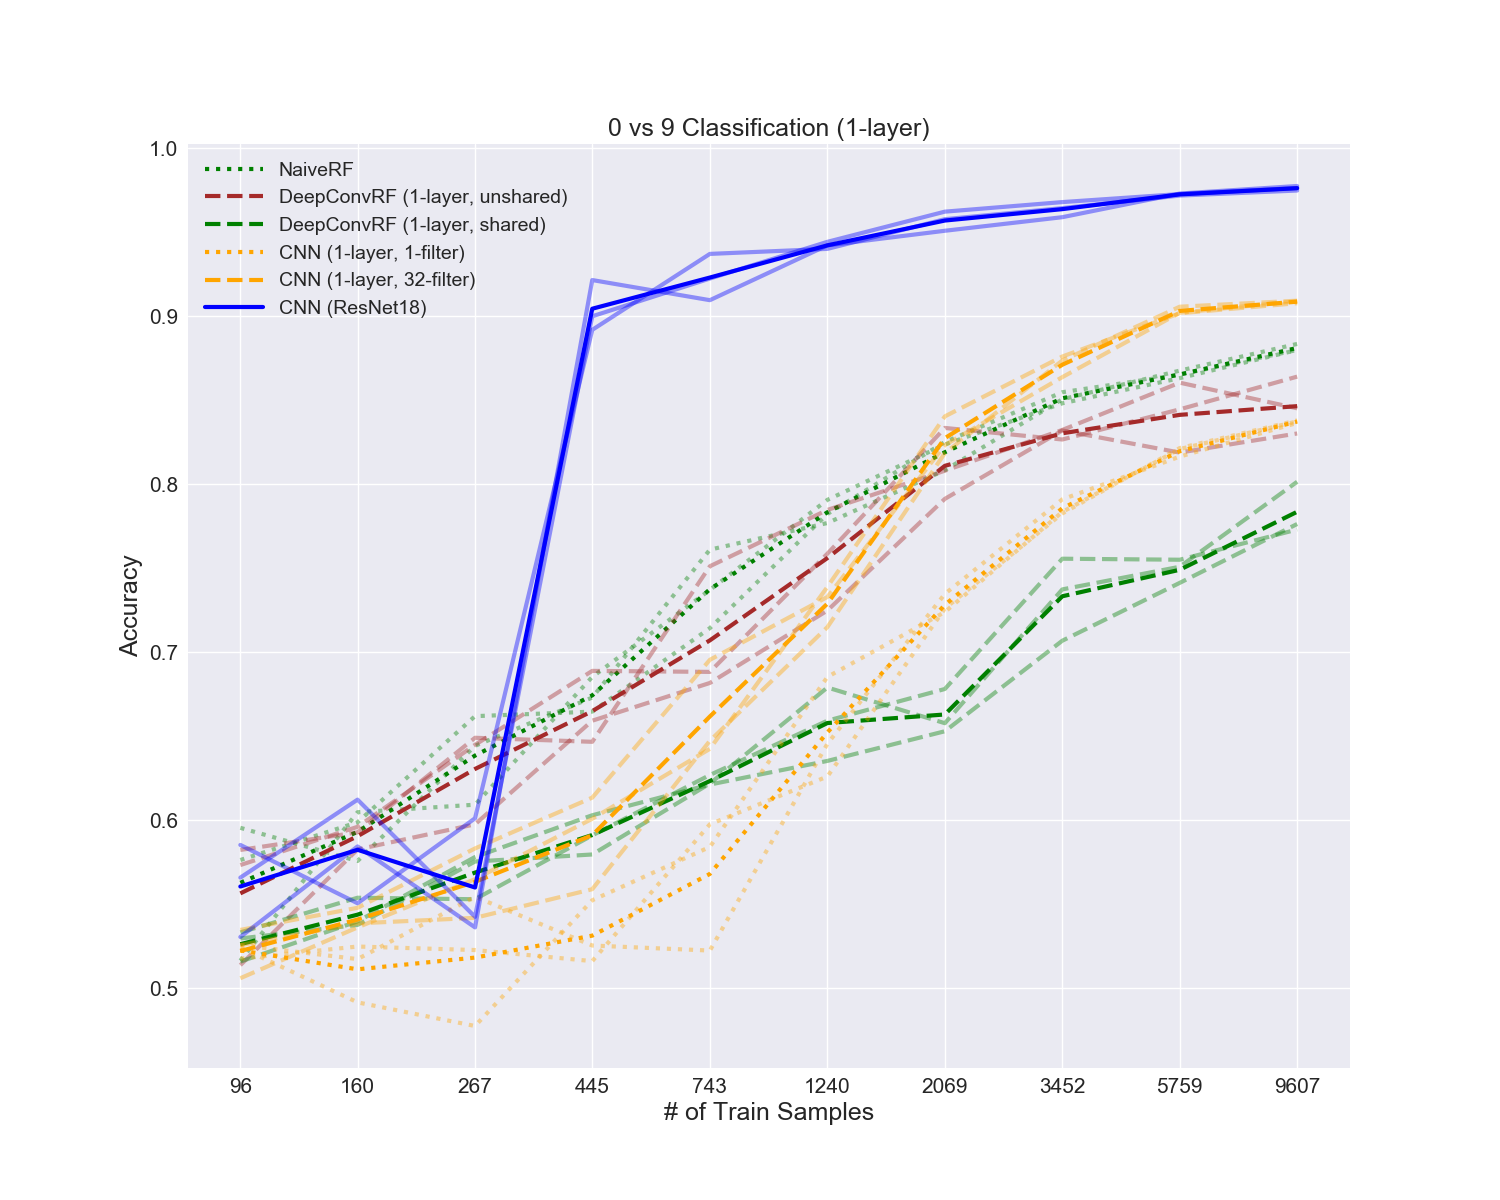
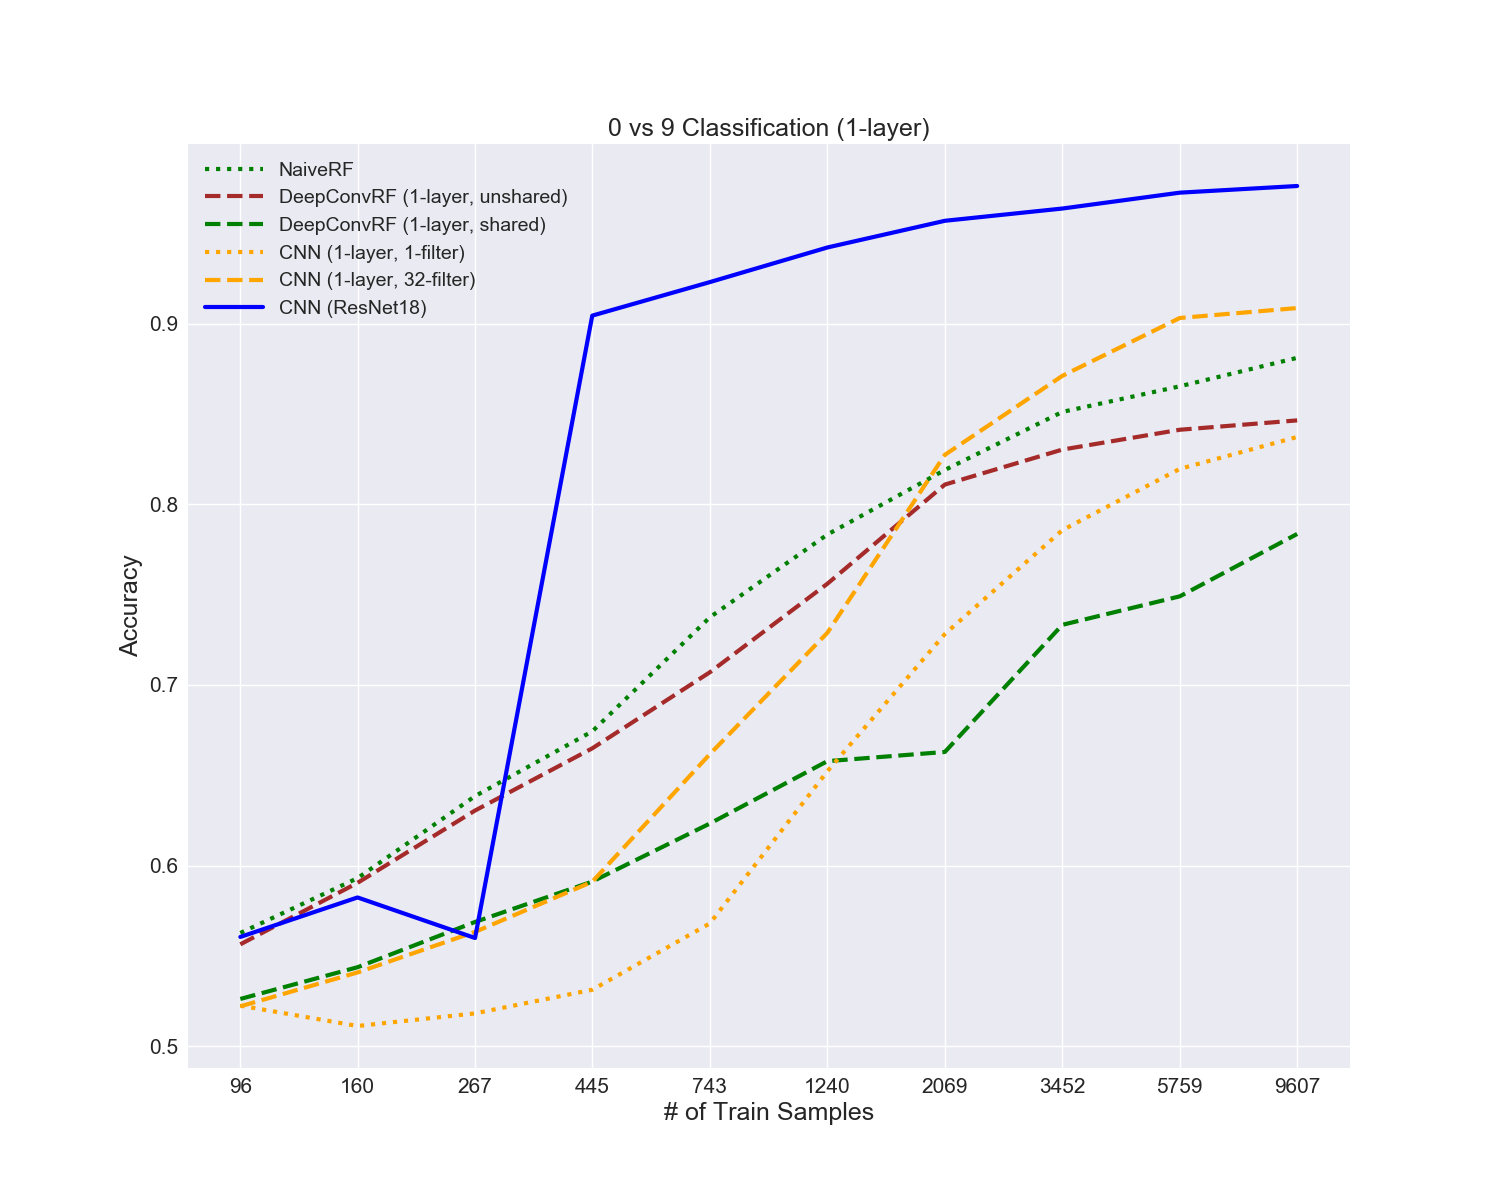
Remove all trials from plots

diff --git a/experiments/plot.py b/experiments/plot.py
@@ -180,8 +180,8 @@ n_layer_experiments = [
 ###############################################################################
 # Plot
 ###############################################################################
-plot_experiments("Classification (1-layer)", one_layer_experiments, plot_all_trials=True, save_to="accuracy_comparisons_1_layer")
-plot_experiments("Classification (n-layers)", n_layer_experiments, plot_all_trials=True, save_to="accuracy_comparisons_n_layer")
+plot_experiments("Classification (1-layer)", one_layer_experiments, plot_all_trials=False, save_to="accuracy_comparisons_1_layer")
+plot_experiments("Classification (n-layers)", n_layer_experiments, plot_all_trials=False, save_to="accuracy_comparisons_n_layer")
 plot_experiments("Classification", all_experiments, plot_all_trials=False, save_to="accuracy_comparisons")
 
 plot_experiments("Classification Performance", all_experiments, is_performance=True, plot_all_trials=False, save_to="perf_comparisons")
